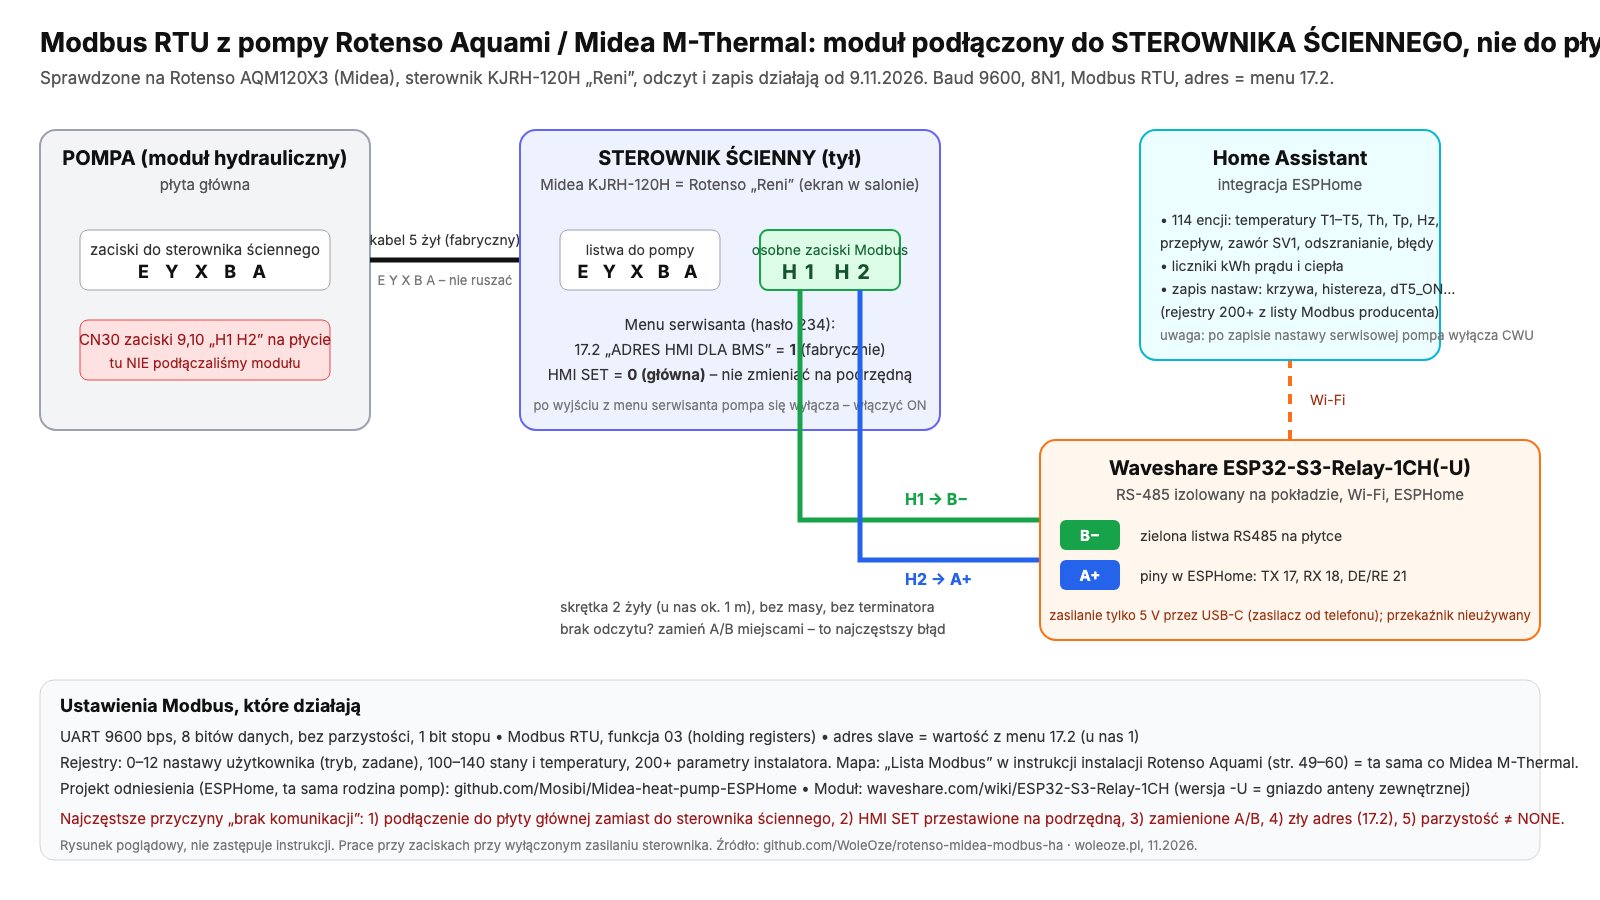
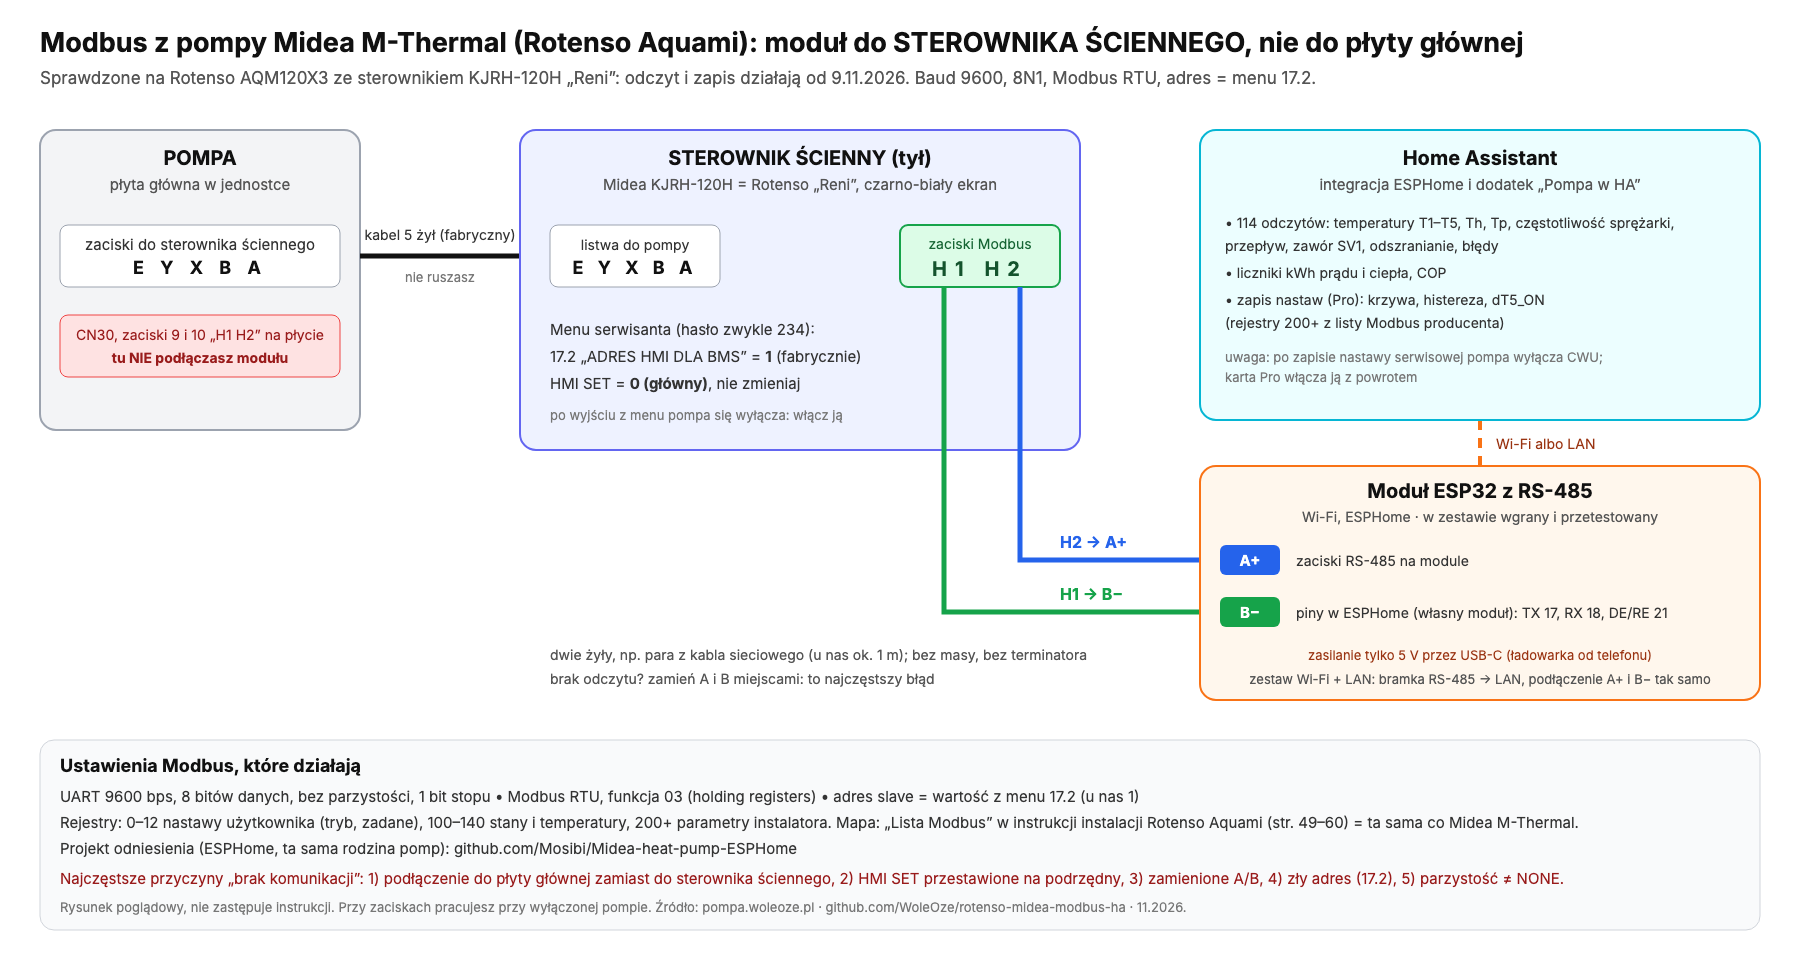
Obrazek do udostępnień 1200×630, nowy schemat podłączenia, robots.txt i mapa strony
- docs/og.png: nagłówek, ceny i panel zamiast uciętego zrzutu; og:image i twitter:image
- schemat: szersze płótno, tytuł się mieści, przewody nie idą przez tekst, typ modułu
  zamiast modelu, dopisek o zestawie Wi-Fi + LAN
- robots.txt i sitemap.xml (strona, instrukcja, kreator)
- README: głos spółki przy wgraniu, „Projekt woleOZE”, 114 odczytów z dopiskiem

diff --git a/docs/schemat-modbus-panel.html b/docs/schemat-modbus-panel.html
@@ -1,78 +1,80 @@
 <!doctype html><html lang="pl"><head><meta charset="utf-8"><title>Modbus Rotenso/Midea – podłączenie do sterownika ściennego</title>
 <style>body{margin:0;background:#fff}svg{display:block}text{font-family:Inter,"Segoe UI",Roboto,Arial,sans-serif}</style></head><body>
-<svg xmlns="http://www.w3.org/2000/svg" width="1600" height="900" viewBox="0 0 1600 900">
-<rect width="1600" height="900" fill="#ffffff"/>
-<text x="40" y="52" font-size="27" font-weight="800" fill="#111">Modbus RTU z pompy Rotenso Aquami / Midea M-Thermal: moduł podłączony do STEROWNIKA ŚCIENNEGO, nie do płyty głównej</text>
-<text x="40" y="84" font-size="17" fill="#555">Sprawdzone na Rotenso AQM120X3 (Midea), sterownik KJRH-120H „Reni”, odczyt i zapis działają od 9.11.2026. Baud 9600, 8N1, Modbus RTU, adres = menu 17.2.</text>
+<svg xmlns="http://www.w3.org/2000/svg" width="1800" height="960" viewBox="0 0 1800 960">
+<rect width="1800" height="960" fill="#ffffff"/>
+<text x="40" y="52" font-size="27" font-weight="800" fill="#111">Modbus z pompy Midea M-Thermal (Rotenso Aquami): moduł do STEROWNIKA ŚCIENNEGO, nie do płyty głównej</text>
+<text x="40" y="84" font-size="17" fill="#555">Sprawdzone na Rotenso AQM120X3 ze sterownikiem KJRH-120H „Reni”: odczyt i zapis działają od 9.11.2026. Baud 9600, 8N1, Modbus RTU, adres = menu 17.2.</text>
 
-<!-- jednostka wewnętrzna -->
-<rect x="40" y="130" width="330" height="300" rx="16" fill="#f3f4f6" stroke="#9ca3af" stroke-width="2"/>
-<text x="205" y="165" text-anchor="middle" font-size="20" font-weight="700" fill="#111">POMPA (moduł hydrauliczny)</text>
-<text x="205" y="190" text-anchor="middle" font-size="15" fill="#555">płyta główna</text>
-<rect x="80" y="230" width="250" height="60" rx="8" fill="#fff" stroke="#9ca3af"/>
-<text x="205" y="255" text-anchor="middle" font-size="15" fill="#333">zaciski do sterownika ściennego</text>
-<text x="205" y="278" text-anchor="middle" font-size="18" font-weight="800" fill="#111" letter-spacing="6">E  Y  X  B  A</text>
-<rect x="80" y="320" width="250" height="60" rx="8" fill="#fee2e2" stroke="#ef4444"/>
-<text x="205" y="345" text-anchor="middle" font-size="15" fill="#991b1b">CN30 zaciski 9,10 „H1 H2” na płycie</text>
-<text x="205" y="368" text-anchor="middle" font-size="14" fill="#991b1b">tu NIE podłączaliśmy modułu</text>
+<!-- jednostka -->
+<rect x="40" y="130" width="320" height="300" rx="16" fill="#f3f4f6" stroke="#9ca3af" stroke-width="2"/>
+<text x="200" y="165" text-anchor="middle" font-size="20" font-weight="700" fill="#111">POMPA</text>
+<text x="200" y="190" text-anchor="middle" font-size="15" fill="#555">płyta główna w jednostce</text>
+<rect x="60" y="225" width="280" height="62" rx="8" fill="#fff" stroke="#9ca3af"/>
+<text x="200" y="250" text-anchor="middle" font-size="15" fill="#333">zaciski do sterownika ściennego</text>
+<text x="200" y="274" text-anchor="middle" font-size="18" font-weight="800" fill="#111" letter-spacing="6">E  Y  X  B  A</text>
+<rect x="60" y="315" width="280" height="62" rx="8" fill="#fee2e2" stroke="#ef4444"/>
+<text x="200" y="340" text-anchor="middle" font-size="14" fill="#991b1b">CN30, zaciski 9 i 10 „H1 H2” na płycie</text>
+<text x="200" y="363" text-anchor="middle" font-size="14" font-weight="700" fill="#991b1b">tu NIE podłączasz modułu</text>
 
 <!-- kabel 5 żył -->
-<path d="M370 260 H520" stroke="#111" stroke-width="5"/>
-<text x="445" y="245" text-anchor="middle" font-size="14" fill="#333">kabel 5 żył (fabryczny)</text>
-<text x="445" y="285" text-anchor="middle" font-size="13" fill="#777">E Y X B A – nie ruszać</text>
+<path d="M360 256 H520" stroke="#111" stroke-width="5"/>
+<text x="440" y="240" text-anchor="middle" font-size="14" fill="#333">kabel 5 żył (fabryczny)</text>
+<text x="440" y="282" text-anchor="middle" font-size="13" fill="#777">nie ruszasz</text>
 
 <!-- sterownik ścienny -->
-<rect x="520" y="130" width="420" height="300" rx="16" fill="#eef2ff" stroke="#6366f1" stroke-width="2"/>
-<text x="730" y="165" text-anchor="middle" font-size="20" font-weight="700" fill="#111">STEROWNIK ŚCIENNY (tył)</text>
-<text x="730" y="190" text-anchor="middle" font-size="15" fill="#555">Midea KJRH-120H = Rotenso „Reni” (ekran w salonie)</text>
-<rect x="560" y="230" width="160" height="60" rx="8" fill="#fff" stroke="#9ca3af"/>
-<text x="640" y="255" text-anchor="middle" font-size="14" fill="#333">listwa do pompy</text>
-<text x="640" y="278" text-anchor="middle" font-size="18" font-weight="800" fill="#111" letter-spacing="5">E Y X B A</text>
-<rect x="760" y="230" width="140" height="60" rx="8" fill="#dcfce7" stroke="#16a34a" stroke-width="2"/>
-<text x="830" y="255" text-anchor="middle" font-size="14" fill="#166534">osobne zaciski Modbus</text>
-<text x="830" y="279" text-anchor="middle" font-size="20" font-weight="800" fill="#14532d" letter-spacing="8">H1  H2</text>
-<text x="730" y="330" text-anchor="middle" font-size="15" fill="#333">Menu serwisanta (hasło 234):</text>
-<text x="730" y="355" text-anchor="middle" font-size="15" fill="#333">17.2 „ADRES HMI DLA BMS” = <tspan font-weight="800">1</tspan> (fabrycznie)</text>
-<text x="730" y="380" text-anchor="middle" font-size="15" fill="#333">HMI SET = <tspan font-weight="800">0 (główna)</tspan> – nie zmieniać na podrzędną</text>
-<text x="730" y="410" text-anchor="middle" font-size="13" fill="#777">po wyjściu z menu serwisanta pompa się wyłącza – włączyć ON</text>
+<rect x="520" y="130" width="560" height="320" rx="16" fill="#eef2ff" stroke="#6366f1" stroke-width="2"/>
+<text x="800" y="165" text-anchor="middle" font-size="20" font-weight="700" fill="#111">STEROWNIK ŚCIENNY (tył)</text>
+<text x="800" y="190" text-anchor="middle" font-size="15" fill="#555">Midea KJRH-120H = Rotenso „Reni”, czarno-biały ekran</text>
+<rect x="550" y="225" width="170" height="62" rx="8" fill="#fff" stroke="#9ca3af"/>
+<text x="635" y="250" text-anchor="middle" font-size="14" fill="#333">listwa do pompy</text>
+<text x="635" y="274" text-anchor="middle" font-size="18" font-weight="800" fill="#111" letter-spacing="5">E Y X B A</text>
+<rect x="900" y="225" width="160" height="62" rx="8" fill="#dcfce7" stroke="#16a34a" stroke-width="2"/>
+<text x="980" y="249" text-anchor="middle" font-size="14" fill="#166534">zaciski Modbus</text>
+<text x="980" y="276" text-anchor="middle" font-size="20" font-weight="800" fill="#14532d" letter-spacing="8">H1  H2</text>
+<text x="550" y="335" font-size="15" fill="#333">Menu serwisanta (hasło zwykle 234):</text>
+<text x="550" y="362" font-size="15" fill="#333">17.2 „ADRES HMI DLA BMS” = <tspan font-weight="800">1</tspan> (fabrycznie)</text>
+<text x="550" y="389" font-size="15" fill="#333">HMI SET = <tspan font-weight="800">0 (główny)</tspan>, nie zmieniaj</text>
+<text x="550" y="420" font-size="13" fill="#777">po wyjściu z menu pompa się wyłącza: włącz ją</text>
 
-<!-- przewody RS485 -->
-<path d="M800 290 V520 H1040" stroke="#16a34a" stroke-width="5" fill="none"/>
-<path d="M860 290 V560 H1040" stroke="#2563eb" stroke-width="5" fill="none"/>
-<text x="905" y="505" font-size="16" font-weight="700" fill="#16a34a">H1  →  B−</text>
-<text x="905" y="585" font-size="16" font-weight="700" fill="#2563eb">H2  →  A+</text>
-<text x="560" y="612" font-size="14" fill="#555">skrętka 2 żyły (u nas ok. 1 m), bez masy, bez terminatora</text>
-<text x="560" y="634" font-size="14" fill="#555">brak odczytu? zamień A/B miejscami – to najczęstszy błąd</text>
+<!-- przewody RS-485 -->
+<path d="M1020 287 V560 H1200" stroke="#2563eb" stroke-width="5" fill="none"/>
+<path d="M944 287 V612 H1200" stroke="#16a34a" stroke-width="5" fill="none"/>
+<text x="1060" y="548" font-size="16" font-weight="700" fill="#2563eb">H2  →  A+</text>
+<text x="1060" y="600" font-size="16" font-weight="700" fill="#16a34a">H1  →  B−</text>
+<text x="550" y="660" font-size="14" fill="#555">dwie żyły, np. para z kabla sieciowego (u nas ok. 1 m); bez masy, bez terminatora</text>
+<text x="550" y="684" font-size="14" fill="#555">brak odczytu? zamień A i B miejscami: to najczęstszy błąd</text>
 
 <!-- moduł -->
-<rect x="1040" y="440" width="500" height="200" rx="16" fill="#fff7ed" stroke="#f97316" stroke-width="2"/>
-<text x="1290" y="475" text-anchor="middle" font-size="20" font-weight="700" fill="#111">Waveshare ESP32-S3-Relay-1CH(-U)</text>
-<text x="1290" y="500" text-anchor="middle" font-size="15" fill="#555">RS-485 izolowany na pokładzie, Wi-Fi, ESPHome</text>
-<rect x="1060" y="520" width="60" height="30" rx="6" fill="#16a34a"/><text x="1090" y="541" text-anchor="middle" font-size="15" font-weight="800" fill="#fff">B−</text>
-<rect x="1060" y="560" width="60" height="30" rx="6" fill="#2563eb"/><text x="1090" y="581" text-anchor="middle" font-size="15" font-weight="800" fill="#fff">A+</text>
-<text x="1140" y="541" font-size="14" fill="#333">zielona listwa RS485 na płytce</text>
-<text x="1140" y="581" font-size="14" fill="#333">piny w ESPHome: TX 17, RX 18, DE/RE 21</text>
-<text x="1290" y="620" text-anchor="middle" font-size="13" fill="#9a3412">zasilanie tylko 5 V przez USB-C (zasilacz od telefonu); przekaźnik nieużywany</text>
+<rect x="1200" y="466" width="560" height="234" rx="16" fill="#fff7ed" stroke="#f97316" stroke-width="2"/>
+<text x="1480" y="498" text-anchor="middle" font-size="20" font-weight="700" fill="#111">Moduł ESP32 z RS-485</text>
+<text x="1480" y="522" text-anchor="middle" font-size="14" fill="#555">Wi-Fi, ESPHome · w zestawie wgrany i przetestowany</text>
+<rect x="1220" y="545" width="60" height="30" rx="6" fill="#2563eb"/><text x="1250" y="566" text-anchor="middle" font-size="15" font-weight="800" fill="#fff">A+</text>
+<rect x="1220" y="597" width="60" height="30" rx="6" fill="#16a34a"/><text x="1250" y="618" text-anchor="middle" font-size="15" font-weight="800" fill="#fff">B−</text>
+<text x="1296" y="566" font-size="14" fill="#333">zaciski RS-485 na module</text>
+<text x="1296" y="618" font-size="14" fill="#333">piny w ESPHome (własny moduł): TX 17, RX 18, DE/RE 21</text>
+<text x="1480" y="660" text-anchor="middle" font-size="13" fill="#9a3412">zasilanie tylko 5 V przez USB-C (ładowarka od telefonu)</text>
+<text x="1480" y="684" text-anchor="middle" font-size="13" fill="#555">zestaw Wi-Fi + LAN: bramka RS-485 → LAN, podłączenie A+ i B− tak samo</text>
 
 <!-- HA -->
-<path d="M1290 440 V360" stroke="#f97316" stroke-width="4" stroke-dasharray="10 8"/>
-<text x="1310" y="405" font-size="14" fill="#9a3412">Wi-Fi</text>
-<rect x="1140" y="130" width="300" height="230" rx="16" fill="#ecfeff" stroke="#06b6d4" stroke-width="2"/>
-<text x="1290" y="165" text-anchor="middle" font-size="20" font-weight="700" fill="#111">Home Assistant</text>
-<text x="1290" y="190" text-anchor="middle" font-size="15" fill="#555">integracja ESPHome</text>
-<text x="1160" y="225" font-size="14" fill="#333">• 114 encji: temperatury T1–T5, Th, Tp, Hz,</text>
-<text x="1160" y="248" font-size="14" fill="#333">  przepływ, zawór SV1, odszranianie, błędy</text>
-<text x="1160" y="271" font-size="14" fill="#333">• liczniki kWh prądu i ciepła</text>
-<text x="1160" y="294" font-size="14" fill="#333">• zapis nastaw: krzywa, histereza, dT5_ON…</text>
-<text x="1160" y="317" font-size="14" fill="#333">  (rejestry 200+ z listy Modbus producenta)</text>
-<text x="1160" y="340" font-size="13" fill="#777">uwaga: po zapisie nastawy serwisowej pompa wyłącza CWU</text>
+<path d="M1480 466 V420" stroke="#f97316" stroke-width="4" stroke-dasharray="10 8"/>
+<text x="1496" y="449" font-size="14" fill="#9a3412">Wi-Fi albo LAN</text>
+<rect x="1200" y="130" width="560" height="290" rx="16" fill="#ecfeff" stroke="#06b6d4" stroke-width="2"/>
+<text x="1480" y="165" text-anchor="middle" font-size="20" font-weight="700" fill="#111">Home Assistant</text>
+<text x="1480" y="190" text-anchor="middle" font-size="15" fill="#555">integracja ESPHome i dodatek „Pompa w HA”</text>
+<text x="1225" y="228" font-size="14" fill="#333">• 114 odczytów: temperatury T1–T5, Th, Tp, częstotliwość sprężarki,</text>
+<text x="1225" y="251" font-size="14" fill="#333">  przepływ, zawór SV1, odszranianie, błędy</text>
+<text x="1225" y="278" font-size="14" fill="#333">• liczniki kWh prądu i ciepła, COP</text>
+<text x="1225" y="305" font-size="14" fill="#333">• zapis nastaw (Pro): krzywa, histereza, dT5_ON</text>
+<text x="1225" y="328" font-size="14" fill="#333">  (rejestry 200+ z listy Modbus producenta)</text>
+<text x="1225" y="362" font-size="13" fill="#777">uwaga: po zapisie nastawy serwisowej pompa wyłącza CWU;</text>
+<text x="1225" y="382" font-size="13" fill="#777">karta Pro włącza ją z powrotem</text>
 
 <!-- ramka ustawień -->
-<rect x="40" y="680" width="1500" height="180" rx="14" fill="#f9fafb" stroke="#d1d5db"/>
-<text x="60" y="712" font-size="18" font-weight="800" fill="#111">Ustawienia Modbus, które działają</text>
-<text x="60" y="742" font-size="15" fill="#333">UART 9600 bps, 8 bitów danych, bez parzystości, 1 bit stopu  •  Modbus RTU, funkcja 03 (holding registers)  •  adres slave = wartość z menu 17.2 (u nas 1)</text>
-<text x="60" y="768" font-size="15" fill="#333">Rejestry: 0–12 nastawy użytkownika (tryb, zadane), 100–140 stany i temperatury, 200+ parametry instalatora. Mapa: „Lista Modbus” w instrukcji instalacji Rotenso Aquami (str. 49–60) = ta sama co Midea M-Thermal.</text>
-<text x="60" y="794" font-size="15" fill="#333">Projekt odniesienia (ESPHome, ta sama rodzina pomp): github.com/Mosibi/Midea-heat-pump-ESPHome  •  Moduł: waveshare.com/wiki/ESP32-S3-Relay-1CH (wersja -U = gniazdo anteny zewnętrznej)</text>
-<text x="60" y="824" font-size="15" fill="#991b1b">Najczęstsze przyczyny „brak komunikacji”: 1) podłączenie do płyty głównej zamiast do sterownika ściennego, 2) HMI SET przestawione na podrzędną, 3) zamienione A/B, 4) zły adres (17.2), 5) parzystość ≠ NONE.</text>
-<text x="60" y="850" font-size="13" fill="#777">Rysunek poglądowy, nie zastępuje instrukcji. Prace przy zaciskach przy wyłączonym zasilaniu sterownika. Źródło: github.com/WoleOze/rotenso-midea-modbus-ha · woleoze.pl, 11.2026.</text>
+<rect x="40" y="740" width="1720" height="190" rx="14" fill="#f9fafb" stroke="#d1d5db"/>
+<text x="60" y="772" font-size="18" font-weight="800" fill="#111">Ustawienia Modbus, które działają</text>
+<text x="60" y="802" font-size="15" fill="#333">UART 9600 bps, 8 bitów danych, bez parzystości, 1 bit stopu  •  Modbus RTU, funkcja 03 (holding registers)  •  adres slave = wartość z menu 17.2 (u nas 1)</text>
+<text x="60" y="828" font-size="15" fill="#333">Rejestry: 0–12 nastawy użytkownika (tryb, zadane), 100–140 stany i temperatury, 200+ parametry instalatora. Mapa: „Lista Modbus” w instrukcji instalacji Rotenso Aquami (str. 49–60) = ta sama co Midea M-Thermal.</text>
+<text x="60" y="854" font-size="15" fill="#333">Projekt odniesienia (ESPHome, ta sama rodzina pomp): github.com/Mosibi/Midea-heat-pump-ESPHome</text>
+<text x="60" y="884" font-size="15" fill="#991b1b">Najczęstsze przyczyny „brak komunikacji”: 1) podłączenie do płyty głównej zamiast do sterownika ściennego, 2) HMI SET przestawione na podrzędny, 3) zamienione A/B, 4) zły adres (17.2), 5) parzystość ≠ NONE.</text>
+<text x="60" y="912" font-size="13" fill="#777">Rysunek poglądowy, nie zastępuje instrukcji. Przy zaciskach pracujesz przy wyłączonej pompie. Źródło: pompa.woleoze.pl · github.com/WoleOze/rotenso-midea-modbus-ha · 11.2026.</text>
 </svg></body></html>

diff --git a/index.html b/index.html
@@ -13,11 +13,12 @@
 <meta property="og:url" content="https://pompa.woleoze.pl/">
 <meta property="og:title" content="Twoja pompa grzeje. Ale czy wiesz, za ile i czy dobrze?">
 <meta property="og:description" content="Rotenso Aquami, Kaisai Arctic, Galmet Prima i inne pompy na płycie Midea M-Thermal w Home Assistant: 114 odczytów (parametry pracy co 5 s), COP, koszty, raport i nastawy. Bez chmury. Start za darmo.">
-<meta property="og:image" content="https://pompa.woleoze.pl/docs/zrzuty/pompa.png">
-<meta property="og:image:width" content="1400">
-<meta property="og:image:height" content="1760">
-<meta property="og:image:alt" content="Panel Pompa w Home Assistant: obieg czynnika na żywo, COP, doba pracy, krzywa grzewcza">
+<meta property="og:image" content="https://pompa.woleoze.pl/docs/og.png">
+<meta property="og:image:width" content="1200">
+<meta property="og:image:height" content="630">
+<meta property="og:image:alt" content="Pompa ciepła w Home Assistant: panel z COP, kosztami i nastawami">
 <meta name="twitter:card" content="summary_large_image">
+<meta name="twitter:image" content="https://pompa.woleoze.pl/docs/og.png">
 <script>document.documentElement.classList.add('js')</script>
 <style>
 :root{--bg:#050a16;--bg2:#081126;--panel:rgba(13,24,50,.78);--panel2:rgba(17,31,64,.9);--line:rgba(110,160,255,.18);--line2:rgba(110,160,255,.32);--txt:#eaf0ff;--mut:#97a8cc;--hp:#39c0ff;--hot:#ff5470;--warm:#ffb020;--ok:#2ee6a6;--vio:#b388ff;--r:18px}
